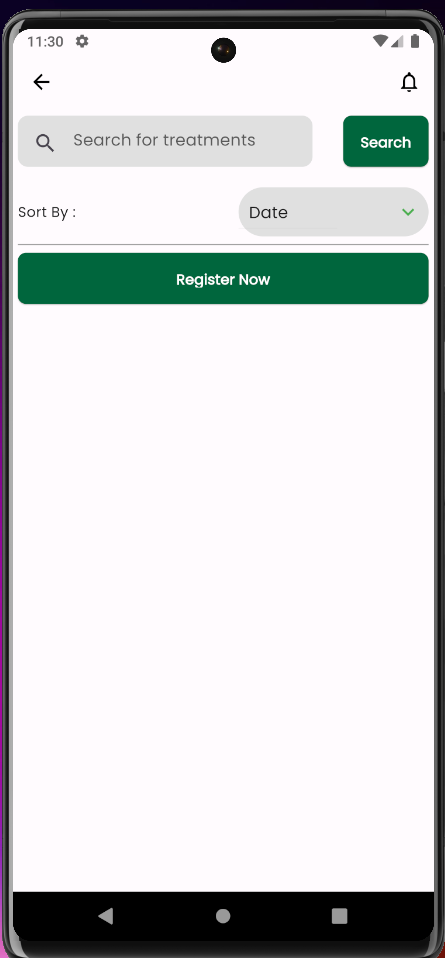
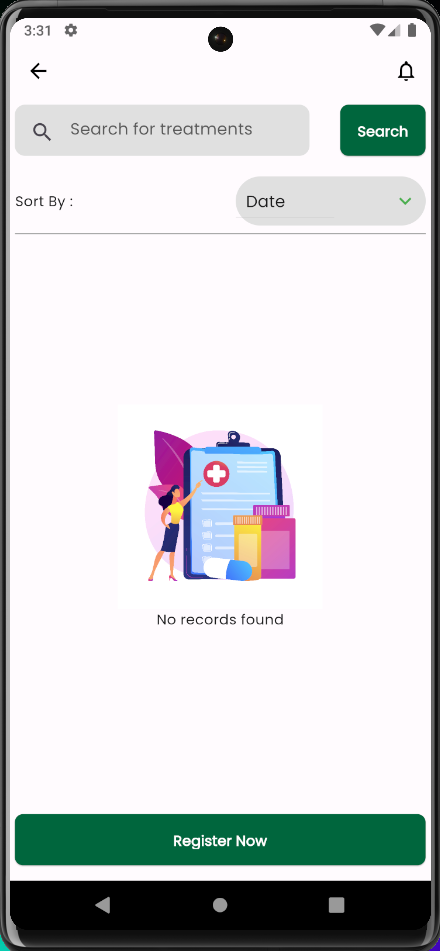
feat: :sparkles: Network request added

diff --git a/ayurvedic_centere/lib/pages/home_page.dart b/ayurvedic_centere/lib/pages/home_page.dart
@@ -11,82 +11,109 @@ import 'package:gap/gap.dart';
 final providerNotifier =
     ChangeNotifierProvider<ProviderNotifier>((ref) => ProviderNotifier());
 
-class Homepage extends StatefulWidget {
+class Homepage extends ConsumerStatefulWidget {
   const Homepage({super.key});
 
   @override
-  State<Homepage> createState() => _HomepageState();
+  ConsumerState<Homepage> createState() => _HomepageState();
 }
 
-class _HomepageState extends State<Homepage> {
+class _HomepageState extends ConsumerState<Homepage> {
   @override
   Widget build(BuildContext context) {
+    var provider = ref.watch(providerNotifier);
     double width = MediaQuery.of(context).size.width;
+    double height = MediaQuery.of(context).size.height - 100;
     return Scaffold(
       appBar: appBar(context),
       body: SingleChildScrollView(
         child: Padding(
           padding: const EdgeInsets.all(5.0),
-          child: Column(
-            crossAxisAlignment: CrossAxisAlignment.start,
-            mainAxisAlignment: MainAxisAlignment.spaceBetween,
-            children: [
-              SizedBox(
-                height: 50,
-                child: Row(
+          child: SizedBox(
+            width: width,
+            height: height,
+            child: Column(
+              crossAxisAlignment: CrossAxisAlignment.end,
+              mainAxisAlignment: MainAxisAlignment.spaceBetween,
+              children: [
+                Column(
+                  crossAxisAlignment: CrossAxisAlignment.start,
+                  mainAxisAlignment: MainAxisAlignment.spaceBetween,
                   children: [
                     SizedBox(
-                        width: width * 0.7, child: const CustomSearchBar()),
-                    Gap(30),
-                    Expanded(
-                      child: CustomPrimaryButton(
-                        onPressed: () {},
-                        buttonText: "Search",
+                      height: 50,
+                      child: Row(
+                        children: [
+                          SizedBox(
+                              width: width * 0.7,
+                              child: const CustomSearchBar()),
+                          Gap(30),
+                          Expanded(
+                            child: CustomPrimaryButton(
+                              onPressed: () {},
+                              buttonText: "Search",
+                            ),
+                          )
+                        ],
                       ),
-                    )
-                  ],
-                ),
-              ),
-              const Gap(20),
-              const SizedBox(
-                child: Column(
-                  children: [
-                    Row(
-                      children: [
-                        Expanded(flex: 3, child: Text("Sort By :")),
-                        Gap(30),
-                        Expanded(
-                          flex: 3,
-                          child: CustomDropDown(
-                            values: ["Date", "Price", "Rating"],
-                          ),
-                        )
-                      ],
                     ),
-                    Divider(
-                      color: Colors.grey,
-                    )
+                    const Gap(20),
+                    SizedBox(
+                      height: height * 0.3,
+                      child: const SingleChildScrollView(
+                        child: Column(
+                          children: [
+                            Row(
+                              children: [
+                                Expanded(flex: 3, child: Text("Sort By :")),
+                                Gap(30),
+                                Expanded(
+                                  flex: 3,
+                                  child: CustomDropDown(
+                                    values: ["Date", "Price", "Rating"],
+                                  ),
+                                )
+                              ],
+                            ),
+                            Divider(
+                              color: Colors.grey,
+                            )
+                          ],
+                        ),
+                      ),
+                    ),
+                    provider.patientList.isEmpty
+                        ? Center(
+                            child: Column(
+                              children: [
+                                Image.asset(
+                                  'assets/images/no_customer.jpg',
+                                  width: 200,
+                                  height: 200,
+                                  fit: BoxFit.fill,
+                                ),
+                                const Text("No records found")
+                              ],
+                            ),
+                          )
+                        : SizedBox(),
                   ],
                 ),
-              ),
-              // Column(
-              //   children: List.generate(length, (index) => null),
-              // ),
-              SizedBox(
-                height: 50,
-                child: Expanded(
-                    child: CustomPrimaryButton(
-                  onPressed: () {
-                    Navigator.push(
-                      context,
-                      MaterialPageRoute(
-                          builder: (context) => const RegisterPage()),
-                    );
-                  },
-                  buttonText: "Register Now",
-                )),
-              )
-            ],
+                SizedBox(
+                  height: 50,
+                  child: CustomPrimaryButton(
+                    onPressed: () {
+                      Navigator.push(
+                        context,
+                        MaterialPageRoute(
+                            builder: (context) => const RegisterPage()),
+                      );
+                    },
+                    buttonText: "Register Now",
+                  ),
+                )
+              ],
+            ),
           ),
         ),
       ),

diff --git a/ayurvedic_centere/lib/implementation/implementation.dart b/ayurvedic_centere/lib/implementation/implementation.dart
@@ -29,4 +29,56 @@ class Implementation {
       return false;
     }
   }
+
+  static Future<bool> register({required Patient patient}) async {
+    SharedPreferences sharedPreferences = await SharedPreferences.getInstance();
+
+    try {
+      String url = '$baseUrl/PatientUpdate';
+      var response = await dio.post(
+        url,
+        data: patient.toJson(),
+      );
+
+      return true;
+    } catch (error) {
+      return false;
+    }
+  }
+
+  static Future<bool> getPatientList() async {
+    SharedPreferences sharedPreferences = await SharedPreferences.getInstance();
+    String? token = await sharedPreferences.getString("token");
+    try {
+      FormData formData = FormData.fromMap({'token': token});
+      String url = '$baseUrl/PatientList';
+      var response = await dio.get(
+        url,
+        data: formData,
+      );
+      print(response);
+
+      return true;
+    } catch (error) {
+      return false;
+    }
+  }
+
+  static Future<bool> getBranchList() async {
+    SharedPreferences sharedPreferences = await SharedPreferences.getInstance();
+    String? token = await sharedPreferences.getString("token");
+    try {
+      FormData formData = FormData.fromMap({'token': token});
+      String url = '$baseUrl/BranchList';
+      var response = await dio.get(
+        url,
+        data: formData,
+      );
+      print(response);
+
+      return true;
+    } catch (error) {
+      return false;
+    }
+  }
 }

diff --git a/ayurvedic_centere/lib/implementation/notifier.dart b/ayurvedic_centere/lib/implementation/notifier.dart
@@ -1,7 +1,15 @@
+import 'package:ayurvedic_centere/core/schemas.dart';
 import 'package:ayurvedic_centere/implementation/implementation.dart';
 import 'package:flutter/material.dart';
 
 class ProviderNotifier extends ChangeNotifier {
   Future<bool> login({required String username, required String password}) =>
       Implementation.login(username: username, password: password);
+
+  Future<bool> register({required Patient patient}) =>
+      Implementation.register(patient: patient);
+
+  Future<bool> getPatientList() => Implementation.getPatientList();
+  Future<bool> getBranchList() => Implementation.getPatientList();
+  List<Patient> patientList = [];
 }
